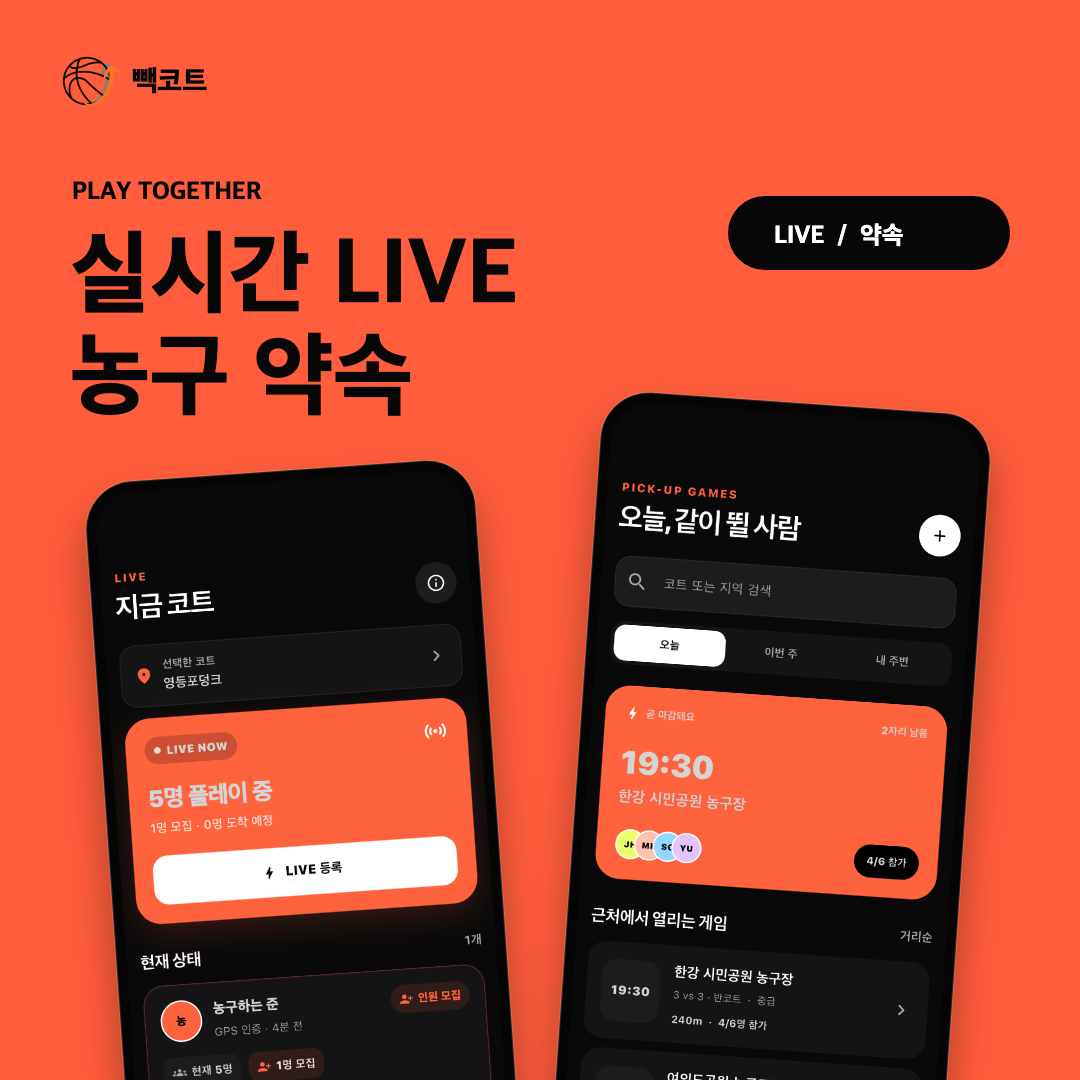
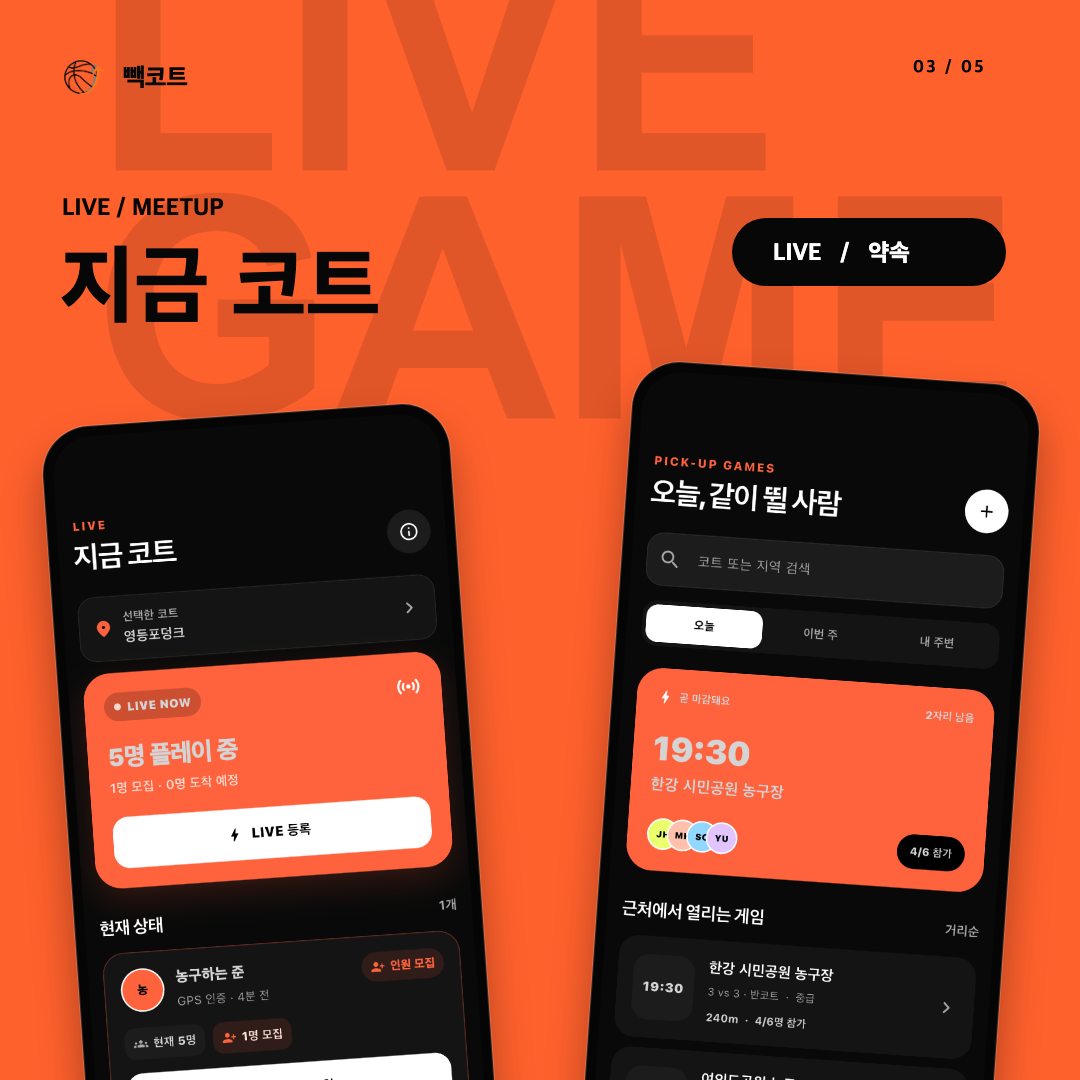
Redesign social promo carousel

diff --git a/Backcourt-Social/app.js b/Backcourt-Social/app.js
@@ -2,7 +2,8 @@ const SIZE = 1080;
 const C = {
   ink: "#070707",
   panel: "#151515",
-  orange: "#ff5d3b",
+  orange: "#ff612d",
+  orangeDeep: "#db4d24",
   paper: "#f1efe8",
   white: "#ffffff",
   muted: "#929292",
@@ -95,174 +96,196 @@ function phone(ctx, image, x, y, width, height, angle = 0, anchorY = .5) {
 
 function label(ctx, text, x, y, color = C.orange) {
   ctx.fillStyle = color;
-  ctx.font = font(900, 25);
+  ctx.font = font(900, 24);
   ctx.fillText(text, x, y);
 }
 
-function brand(ctx, dark = false) {
-  if (dark) {
-    roundedFill(ctx, 58, 52, 58, 58, 8, C.ink);
-    ctx.drawImage(images.icon, 58, 52, 58, 58);
-  } else {
-    ctx.drawImage(images.markLight, 48, 42, 78, 78);
+function trackedText(ctx, text, x, y, tracking = 5) {
+  let cursor = x;
+  for (const character of text) {
+    ctx.fillText(character, cursor, y);
+    cursor += ctx.measureText(character).width + tracking;
   }
+}
+
+function brand(ctx, mode = "light") {
+  const dark = mode === "dark";
+  const compact = mode === "compact";
+  const size = compact ? 54 : 66;
+  const x = compact ? 54 : 58;
+  const y = compact ? 50 : 48;
+  ctx.drawImage(dark ? images.icon : images.markLight, x, y, size, size);
   ctx.fillStyle = dark ? C.white : C.ink;
-  ctx.font = font(900, 29);
-  ctx.fillText("빽코트", 132, 91);
+  ctx.font = font(900, compact ? 25 : 28);
+  ctx.fillText("빽코트", x + size + 15, y + size * .67);
+}
+
+function slideMeta(ctx, index, color = C.ink) {
+  ctx.save();
+  ctx.fillStyle = color;
+  ctx.font = font(900, 17);
+  trackedText(ctx, `${String(index).padStart(2, "0")} / 05`, 913, 73, 2.5);
+  ctx.restore();
+}
+
+function platformMeta(ctx, color = C.ink) {
+  ctx.save();
+  ctx.fillStyle = color;
+  ctx.font = font(900, 17);
+  trackedText(ctx, "IOS / ANDROID", 818, 72, 3);
+  ctx.restore();
+}
+
+function giantType(ctx, lines, x, y, size, lineHeight, color, alpha = 1) {
+  ctx.save();
+  ctx.globalAlpha = alpha;
+  ctx.fillStyle = color;
+  ctx.font = `950 ${size}px Arial, "Apple SD Gothic Neo", sans-serif`;
+  ctx.textBaseline = "top";
+  lines.forEach((line, index) => ctx.fillText(line, x, y + index * lineHeight));
+  ctx.restore();
+}
+
+function footerTag(ctx, text, color = C.ink) {
+  ctx.fillStyle = color;
+  ctx.fillRect(54, 998, 72, 6);
+  ctx.font = font(900, 19);
+  trackedText(ctx, text, 150, 1007, 3);
+}
+
+function heroIcon(ctx, x, y, size, angle = -3) {
+  ctx.save();
+  ctx.translate(x + size / 2, y + size / 2);
+  ctx.rotate(angle * Math.PI / 180);
+  ctx.translate(-size / 2, -size / 2);
+  ctx.shadowColor = "rgba(0,0,0,.18)";
+  ctx.shadowBlur = 0;
+  ctx.shadowOffsetX = 26;
+  ctx.shadowOffsetY = 30;
+  ctx.drawImage(images.icon, 0, 0, size, size);
+  ctx.restore();
 }
 
 function courtLines(ctx, color, alpha = .22) {
   ctx.save();
   ctx.strokeStyle = color;
   ctx.globalAlpha = alpha;
-  ctx.lineWidth = 4;
+  ctx.lineWidth = 3;
   ctx.beginPath();
-  ctx.arc(0, 1080, 340, Math.PI * 1.5, Math.PI * 2);
+  ctx.arc(0, 1080, 370, Math.PI * 1.5, Math.PI * 2);
   ctx.stroke();
   ctx.beginPath();
-  ctx.arc(1080, 1080, 210, Math.PI, Math.PI * 1.5);
+  ctx.arc(1080, 1080, 228, Math.PI, Math.PI * 1.5);
   ctx.stroke();
   ctx.restore();
 }
 
 function slide1(ctx) {
-  ctx.fillStyle = C.paper;
+  ctx.fillStyle = C.orange;
   ctx.fillRect(0, 0, SIZE, SIZE);
-  brand(ctx, false);
-  label(ctx, "BACKCOURT", 72, 252);
-  ctx.fillStyle = C.ink;
-  ctx.font = font(900, 110);
-  ctx.fillText("일상에서", 70, 380);
-  ctx.fillStyle = C.orange;
-  ctx.fillText("다시, 코트로.", 70, 508);
-  ctx.fillStyle = C.ink;
-  ctx.fillRect(72, 575, 68, 10);
-  ctx.font = font(800, 30);
-  ctx.fillText("코트 · LIVE · 약속 · 출석", 72, 646);
-
-  ctx.save();
-  ctx.globalAlpha = .065;
-  ctx.filter = "brightness(0)";
-  ctx.drawImage(images.ball, 724, 92, 330, 330);
-  ctx.restore();
-
-  ctx.fillStyle = C.orange;
-  ctx.fillRect(0, 760, SIZE, 320);
+  giantType(ctx, ["BACK", "COURT"], 222, 64, 286, 244, C.ink, .12);
+  platformMeta(ctx);
+  heroIcon(ctx, 226, 332, 628);
   courtLines(ctx, C.ink, .18);
-  ctx.save();
-  ctx.translate(758, 770);
-  ctx.rotate(-4 * Math.PI / 180);
-  ctx.shadowColor = "rgba(0,0,0,.22)";
-  ctx.shadowBlur = 24;
-  ctx.shadowOffsetY = 18;
-  ctx.drawImage(images.icon, 0, 0, 258, 258);
-  ctx.restore();
-  ctx.fillStyle = C.ink;
-  ctx.font = font(900, 22);
-  ctx.fillText("FIND YOUR COURT", 72, 932);
-  ctx.font = font(900, 18);
-  ctx.fillText("IOS / ANDROID", 72, 976);
+  footerTag(ctx, "FIND YOUR COURT");
 }
 
 function slide2(ctx) {
-  ctx.fillStyle = C.ink;
+  ctx.fillStyle = C.paper;
   ctx.fillRect(0, 0, SIZE, SIZE);
-  brand(ctx, true);
-  label(ctx, "COURT MAP", 72, 216);
-  ctx.fillStyle = C.white;
-  ctx.font = font(900, 92);
-  ctx.fillText("전국 농구", 70, 328);
-  ctx.fillText("코트 지도", 70, 432);
-  roundedFill(ctx, 70, 493, 360, 72, 36, C.orange);
-  ctx.fillStyle = C.white;
-  ctx.font = font(900, 28);
-  ctx.fillText("전국 코트 30,577곳", 100, 540);
-  ctx.fillStyle = C.muted;
-  ctx.font = font(700, 25);
-  ctx.fillText("야외  /  무료  /  조명", 72, 622);
-
-  ctx.save();
-  ctx.globalAlpha = .055;
-  ctx.drawImage(images.ball, -145, 700, 470, 470);
-  ctx.restore();
-  phone(ctx, images.map, 612, 116, 390, 846, 2, .42);
+  giantType(ctx, ["COURT", "MAP"], -24, -72, 282, 238, C.ink, .045);
+  brand(ctx, "compact");
+  slideMeta(ctx, 2);
+  label(ctx, "COURT MAP", 62, 236);
+  ctx.fillStyle = C.ink;
+  ctx.font = font(900, 99);
+  ctx.fillText("코트 찾기", 58, 342);
   ctx.fillStyle = C.orange;
+  ctx.font = font(900, 76);
+  ctx.fillText("30,577", 59, 444);
+  ctx.fillStyle = C.ink;
+  ctx.font = font(900, 26);
+  trackedText(ctx, "COURTS", 64, 488, 3);
+  ctx.fillRect(62, 542, 58, 8);
+  ctx.font = font(800, 24);
+  ctx.fillText("야외  ·  무료  ·  조명", 62, 606);
+  ctx.save();
+  ctx.globalAlpha = .045;
+  ctx.filter = "brightness(0)";
+  ctx.drawImage(images.ball, -268, 616, 660, 660);
+  ctx.restore();
+  phone(ctx, images.map, 570, 158, 440, 952, 2.5, .40);
+  ctx.fillStyle = C.orange;
+  ctx.fillRect(524, 729, 78, 78);
+  ctx.fillStyle = C.white;
   ctx.beginPath();
-  ctx.arc(585, 798, 18, 0, Math.PI * 2);
+  ctx.arc(563, 768, 12, 0, Math.PI * 2);
   ctx.fill();
+  footerTag(ctx, "FIND A COURT");
 }
 
 function slide3(ctx) {
   ctx.fillStyle = C.orange;
   ctx.fillRect(0, 0, SIZE, SIZE);
-  brand(ctx, false);
-  label(ctx, "PLAY TOGETHER", 72, 200, C.ink);
+  giantType(ctx, ["LIVE", "GAME"], 92, -70, 310, 248, C.ink, .12);
+  brand(ctx, "compact");
+  slideMeta(ctx, 3);
+  label(ctx, "LIVE / MEETUP", 62, 216, C.ink);
   ctx.fillStyle = C.ink;
-  ctx.font = font(900, 92);
-  ctx.fillText("실시간 LIVE", 70, 306);
-  ctx.fillText("농구 약속", 70, 408);
-
-  roundedFill(ctx, 728, 196, 282, 74, 37, C.ink);
+  ctx.font = font(900, 86);
+  ctx.fillText("지금 코트", 60, 316);
+  roundedFill(ctx, 732, 218, 274, 68, 34, C.ink);
   ctx.fillStyle = C.white;
-  ctx.font = font(900, 25);
-  ctx.fillText("LIVE  /  약속", 774, 244);
-
-  phone(ctx, images.live, 112, 470, 390, 846, -4, .24);
-  phone(ctx, images.meetup, 574, 402, 390, 846, 4, .25);
+  ctx.font = font(900, 24);
+  ctx.fillText("LIVE   /   약속", 773, 261);
+  phone(ctx, images.live, 70, 414, 408, 884, -4, .23);
+  phone(ctx, images.meetup, 604, 372, 408, 884, 4, .24);
 }
 
 function slide4(ctx) {
-  ctx.fillStyle = C.paper;
-  ctx.fillRect(0, 0, SIZE, SIZE);
-  brand(ctx, false);
-  label(ctx, "COURT CHECK-IN", 70, 214);
   ctx.fillStyle = C.ink;
-  ctx.font = font(900, 86);
-  ctx.fillText("GPS 출석", 68, 320);
-  ctx.fillStyle = C.orange;
-  ctx.fillText("코트 랭킹", 68, 418);
-  ctx.fillStyle = "#55524e";
-  ctx.font = font(800, 26);
-  ctx.fillText("GPS 출석 · 플레이 시간 · 월간 랭킹", 72, 480);
-
-  roundedFill(ctx, 66, 596, 440, 284, 38, C.ink);
-  label(ctx, "COURT RANKING", 100, 652);
+  ctx.fillRect(0, 0, SIZE, SIZE);
+  giantType(ctx, ["CHECK", "IN"], -34, -84, 278, 232, C.orange, .14);
+  brand(ctx, "dark");
+  slideMeta(ctx, 4, C.white);
+  label(ctx, "GPS CHECK-IN", 62, 226);
   ctx.fillStyle = C.white;
-  ctx.font = font(900, 52);
-  ctx.fillText("이번 달 1위", 98, 724);
+  ctx.font = font(900, 94);
+  ctx.fillText("출석", 60, 336);
   ctx.fillStyle = C.orange;
-  ctx.font = font(900, 72);
-  ctx.fillText("COURT #1", 98, 817);
-
-  ctx.save();
-  ctx.globalAlpha = .06;
-  ctx.filter = "brightness(0)";
-  ctx.drawImage(images.ball, -110, 742, 420, 420);
-  ctx.restore();
-  phone(ctx, images.checkin, 620, 124, 390, 846, 2, .42);
+  ctx.fillText("랭킹", 60, 442);
+  roundedFill(ctx, 58, 532, 400, 264, 0, C.orange);
+  ctx.fillStyle = C.ink;
+  ctx.font = font(900, 20);
+  trackedText(ctx, "THIS MONTH", 91, 582, 2.5);
+  ctx.font = font(900, 118);
+  ctx.fillText("01", 86, 706);
+  ctx.font = font(900, 24);
+  ctx.fillText("COURT RANK", 245, 691);
+  phone(ctx, images.checkin, 578, 130, 436, 944, 2, .41);
+  footerTag(ctx, "LEAVE YOUR MARK", C.white);
 }
 
 function slide5(ctx) {
-  ctx.fillStyle = C.ink;
+  ctx.fillStyle = C.paper;
   ctx.fillRect(0, 0, SIZE, SIZE);
-  brand(ctx, true);
-  label(ctx, "COURT STORIES", 70, 205);
-  ctx.fillStyle = C.white;
-  ctx.font = font(900, 86);
-  ctx.fillText("코트 리뷰", 68, 308);
+  giantType(ctx, ["YOUR", "COURT"], 116, -76, 274, 232, C.ink, .045);
+  brand(ctx, "compact");
+  slideMeta(ctx, 5);
+  label(ctx, "FEED / PROFILE", 62, 214);
+  ctx.fillStyle = C.ink;
+  ctx.font = font(900, 84);
+  ctx.fillText("피드", 60, 316);
   ctx.fillStyle = C.orange;
-  ctx.fillText("농구 피드", 68, 408);
-  ctx.fillStyle = C.muted;
-  ctx.font = font(800, 26);
-  ctx.fillText("피드 · 프로필 · 나의 기록", 72, 468);
-
-  phone(ctx, images.feed, 82, 548, 380, 824, -4, .15);
-  phone(ctx, images.profile, 602, 474, 380, 824, 4, .14);
-
-  ctx.save();
-  ctx.globalAlpha = .06;
-  ctx.drawImage(images.ball, 420, 28, 600, 600);
-  ctx.restore();
+  ctx.fillText("프로필", 60, 414);
+  phone(ctx, images.feed, 64, 484, 398, 862, -4, .14);
+  phone(ctx, images.profile, 618, 430, 398, 862, 4, .14);
+  roundedFill(ctx, 390, 889, 300, 74, 37, C.orange);
+  ctx.fillStyle = C.ink;
+  ctx.font = font(900, 23);
+  ctx.textAlign = "center";
+  ctx.fillText("일상에서, 다시 코트로.", 540, 935);
+  ctx.textAlign = "left";
 }
 
 const renderers = [slide1, slide2, slide3, slide4, slide5];

diff --git a/Backcourt-Social/index.html b/Backcourt-Social/index.html
@@ -52,6 +52,6 @@
     </main>
 
     <footer>문구 · 배치 · 색은 화면 보면서 바로 수정</footer>
-    <script src="./app.js?v=2"></script>
+    <script src="./app.js?v=4"></script>
   </body>
 </html>
